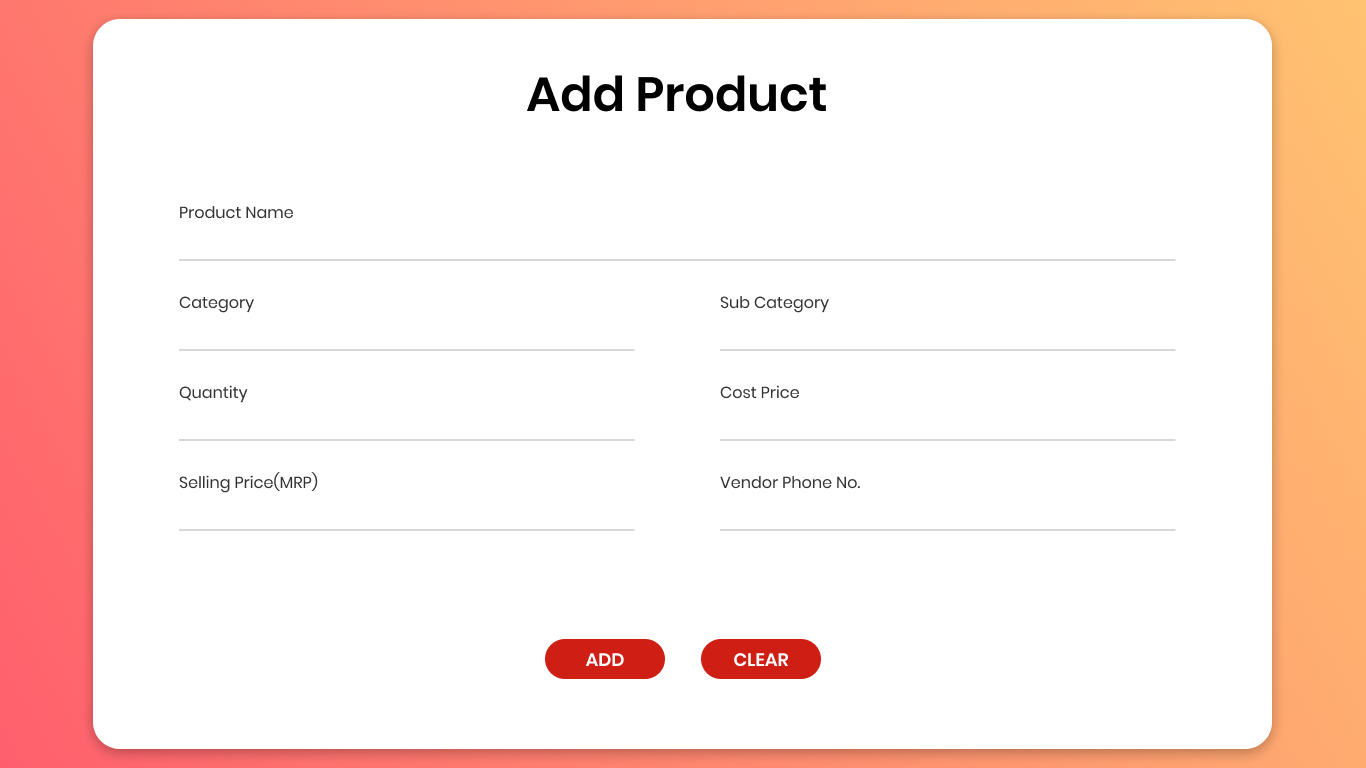
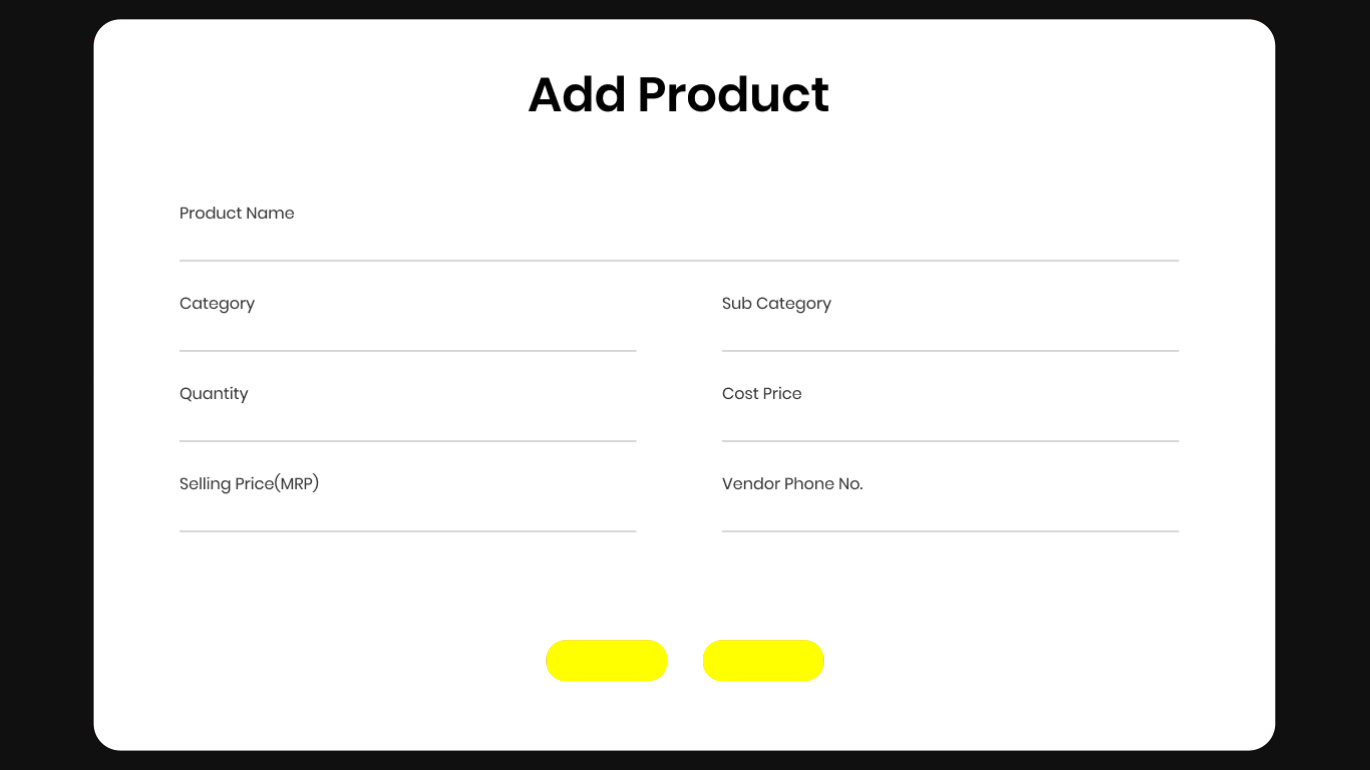
change UI add product

diff --git a/admin.py b/admin.py
@@ -594,10 +594,10 @@ class add_product:
         self.button1.place(relx=0.408, rely=0.836, width=96, height=34)
         self.button1.configure(relief="flat")
         self.button1.configure(overrelief="flat")
-        self.button1.configure(activebackground="#CF1E14")
+        self.button1.configure(activebackground="yellow")
         self.button1.configure(cursor="hand2")
-        self.button1.configure(foreground="#ffffff")
-        self.button1.configure(background="#CF1E14")
+        self.button1.configure(foreground="black")
+        self.button1.configure(background="yellow")
         self.button1.configure(font="-family {Poppins SemiBold} -size 14")
         self.button1.configure(borderwidth="0")
         self.button1.configure(text="""ADD""")
@@ -607,10 +607,10 @@ class add_product:
         self.button2.place(relx=0.526, rely=0.836, width=86, height=34)
         self.button2.configure(relief="flat")
         self.button2.configure(overrelief="flat")
-        self.button2.configure(activebackground="#CF1E14")
+        self.button2.configure(activebackground="yellow")
         self.button2.configure(cursor="hand2")
-        self.button2.configure(foreground="#ffffff")
-        self.button2.configure(background="#CF1E14")
+        self.button2.configure(foreground="black")
+        self.button2.configure(background="yellow")
         self.button2.configure(font="-family {Poppins SemiBold} -size 14")
         self.button2.configure(borderwidth="0")
         self.button2.configure(text="""CLEAR""")
